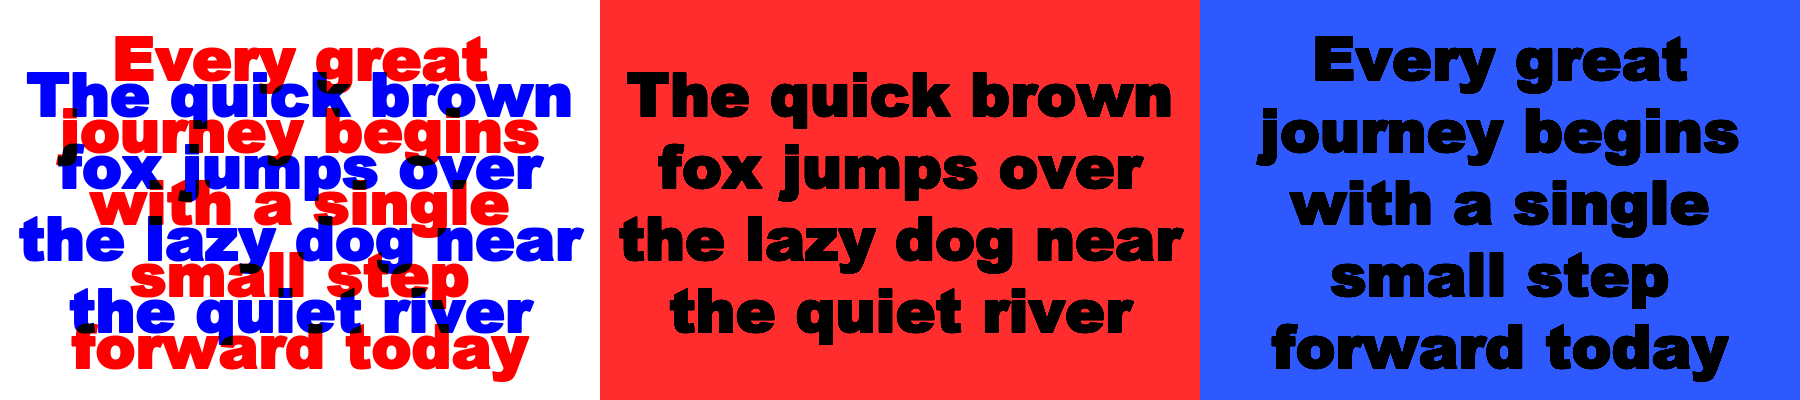
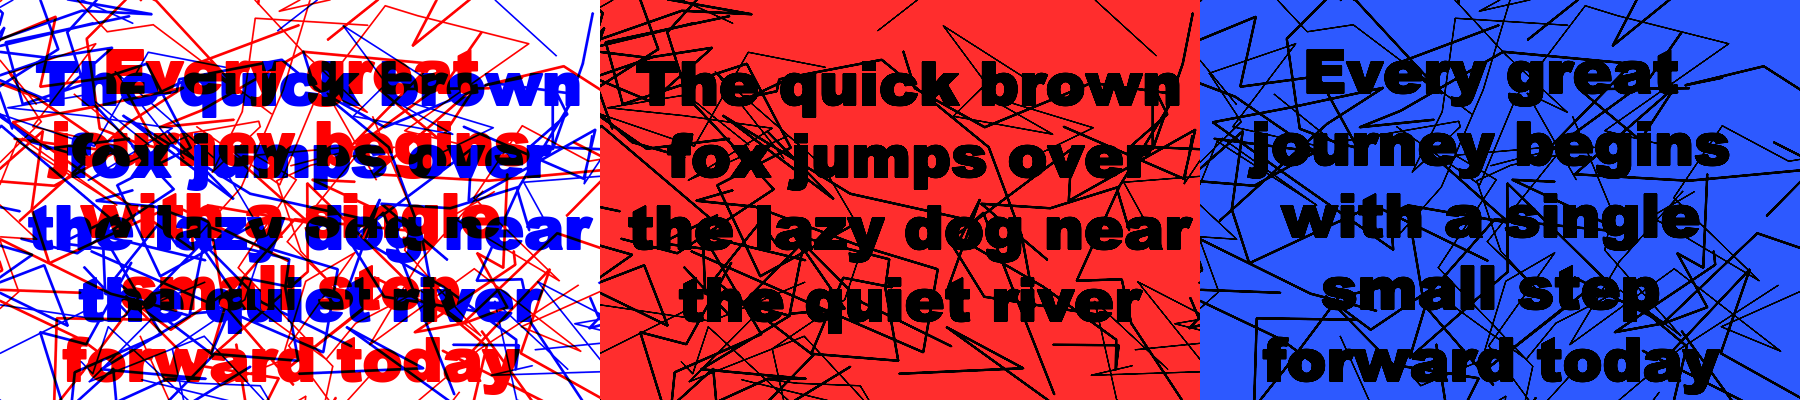
Clean camera page with permission help, move image upload to puzzle page, harder README text example

diff --git a/docs/index.html b/docs/index.html
@@ -10,74 +10,115 @@
 </head>
 <body data-title="title_cam">
 <main>
-  <div id="stage"><canvas id="view"></canvas><div id="msg" data-i="idle"></div></div>
+  <div id="stage"><canvas id="view"></canvas></div>
   <div class="bar">
+    <div id="guide" class="guide" hidden>
+      <h3 id="gtitle" data-i="g_title"></h3>
+      <div class="hint" id="gintro" data-i="g_intro"></div>
+      <pre id="gsteps"></pre>
+      <div class="hint" id="gerr" hidden></div>
+      <div class="row">
+        <button class="mini" id="retry" data-i="retry"></button>
+        <button class="mini" id="reload" data-i="reload"></button>
+        <button class="mini" id="copyaddr" data-i="copyaddr" hidden></button>
+      </div>
+      <div class="hint" id="copied" hidden></div>
+    </div>
     <div class="modes">
       <button class="m-n on" data-m="n" data-i="mode_n"></button>
       <button class="m-r" data-m="r" data-i="mode_r"></button>
       <button class="m-b" data-m="b" data-i="mode_b"></button>
     </div>
-    <div class="row"><label data-i="clarity"></label><input id="k" type="range" min="1" max="5" step="0.1" value="2.2"></div>
-    <div class="row">
-      <button class="mini" id="start" data-i="start"></button>
-      <button class="mini" id="flip" data-i="flip"></button>
-      <button class="mini" id="up" data-i="upload"></button>
-      <input id="file" type="file" accept="image/*" hidden>
-    </div>
+    <button class="go" id="start" data-i="start" hidden></button>
   </div>
 </main>
 <script src="shared.js"></script>
 <script>
-buildHeader('cam');
-let mode = 'n', stream = null, facing = 'environment', still = null, raf = 0;
-const view = $('#view'), vid = document.createElement('video');
+buildHeader();
+const K = 2.2, view = $('#view'), vid = document.createElement('video');
 vid.playsInline = true; vid.muted = true;
-const K = () => +$('#k').value;
+let mode = 'n', stream = null, still = null, raf = 0, guideErr = '', lastKind = 'denied';
+
+const UA = navigator.userAgent;
+const isIOS = /iPad|iPhone|iPod/.test(UA) || (navigator.platform === 'MacIntel' && navigator.maxTouchPoints > 1);
+const isAndroid = /Android/.test(UA);
+const settingsAddr = isIOS ? '' : /Edg\//.test(UA) ? 'edge://settings/content/camera' : /Firefox\//.test(UA) ? 'about:preferences#privacy' : /Chrome\//.test(UA) ? 'chrome://settings/content/camera' : '';
 
 document.querySelectorAll('.modes button').forEach(b => b.onclick = () => {
   mode = b.dataset.m;
   document.querySelectorAll('.modes button').forEach(x => x.classList.toggle('on', x === b));
   if (still) drawStill();
 });
-$('#k').oninput = () => { if (still) drawStill(); };
 
 function stopCam() { cancelAnimationFrame(raf); if (stream) stream.getTracks().forEach(t => t.stop()); stream = null; }
+// state: 'ask' (show the start button), 'running', 'denied' / 'error' (show help)
+function setUI(state) {
+  $('#start').hidden = state !== 'ask';
+  $('#guide').hidden = !(state === 'denied' || state === 'error');
+}
+function renderGuide(kind) {
+  const denied = kind === 'denied';
+  $('#gtitle').hidden = !denied; $('#gintro').hidden = !denied;
+  $('#gsteps').textContent = denied ? t(isIOS ? 'g_ios' : isAndroid ? 'g_android' : 'g_desktop') : '';
+  const e = $('#gerr'); e.hidden = denied; e.textContent = denied ? '' : t(guideErr);
+  $('#copyaddr').hidden = !(denied && settingsAddr);
+  $('#copied').hidden = true;
+}
+function fail(kind, err) { guideErr = err || ''; lastKind = kind; renderGuide(kind); setUI(kind); }
+
 async function startCam() {
   still = null; stopCam();
-  if (!navigator.mediaDevices || !navigator.mediaDevices.getUserMedia) { showErr(); return; }
+  if (!navigator.mediaDevices || !navigator.mediaDevices.getUserMedia) { fail('error', 'e_secure'); return; }
   try {
-    stream = await navigator.mediaDevices.getUserMedia({ video: { facingMode: { ideal: facing }, width: { ideal: 1280 }, height: { ideal: 720 } }, audio: false });
-  } catch (e) { showErr(); return; }
+    stream = await navigator.mediaDevices.getUserMedia({ video: { facingMode: { ideal: 'environment' }, width: { ideal: 1280 }, height: { ideal: 720 } }, audio: false });
+  } catch (e) {
+    const n = e && e.name;
+    if (n === 'NotFoundError' || n === 'OverconstrainedError') fail('error', 'e_nocam');
+    else if (n === 'NotReadableError' || n === 'AbortError') fail('error', 'e_busy');
+    else if (n === 'SecurityError') fail('error', 'e_secure');
+    else fail('denied');
+    return;
+  }
   vid.srcObject = stream; await vid.play();
-  $('#msg').hidden = true; loop();
+  setUI('running'); loop();
 }
-function showErr() { const m = $('#msg'); m.hidden = false; m.dataset.i = 'cam_err'; m.textContent = t('cam_err'); }
 function loop() {
   if (vid.videoWidth) {
     const sc = Math.min(1, 720 / Math.max(vid.videoWidth, vid.videoHeight));
     const w = Math.round(vid.videoWidth * sc), h = Math.round(vid.videoHeight * sc);
-    filterInto(w, h, c => c.drawImage(vid, 0, 0, w, h), view, mode, K());
+    filterInto(w, h, c => c.drawImage(vid, 0, 0, w, h), view, mode, K);
   }
   raf = requestAnimationFrame(loop);
 }
 function drawStill() {
   const s = still, sc = Math.min(1, 1000 / Math.max(s.width, s.height));
   const w = Math.round(s.width * sc), h = Math.round(s.height * sc);
-  filterInto(w, h, c => c.drawImage(s, 0, 0, w, h), view, mode, K());
+  filterInto(w, h, c => c.drawImage(s, 0, 0, w, h), view, mode, K);
 }
-function showImage(src) {
-  const im = new Image();
-  im.onload = () => { stopCam(); still = im; $('#msg').hidden = true; drawStill(); };
-  im.src = src;
-}
-$('#start').onclick = startCam;
-$('#flip').onclick = () => { facing = facing === 'environment' ? 'user' : 'environment'; if (stream) startCam(); };
-$('#up').onclick = () => $('#file').click();
-$('#file').onchange = e => { const f = e.target.files[0]; if (f) showImage(URL.createObjectURL(f)); };
 
-// a puzzle sent over from the "Make a puzzle" page
-try { const d = sessionStorage.getItem('rbl_img'); if (d) { sessionStorage.removeItem('rbl_img'); showImage(d); } } catch (e) {}
-window.onLang = () => { const m = $('#msg'); m.textContent = t(m.dataset.i); };
+$('#start').onclick = startCam;
+$('#retry').onclick = startCam;
+$('#reload').onclick = () => location.reload();
+$('#copyaddr').onclick = async () => {
+  const c = $('#copied'); c.hidden = false; c.textContent = t('copied');
+  try { await navigator.clipboard.writeText(settingsAddr); } catch (e) { c.textContent = settingsAddr; }
+};
+
+// If the camera is already allowed, start straight away. Otherwise show the start button
+// (or the help panel when the permission was blocked).
+(async function init() {
+  try { const d = sessionStorage.getItem('rbl_img'); if (d) {   // a puzzle sent over from the puzzle page
+    sessionStorage.removeItem('rbl_img');
+    const im = new Image(); im.onload = () => { still = im; drawStill(); setUI('ask'); }; im.src = d; return; } } catch (e) {}
+  let perm = null, state = 'prompt';
+  try { if (navigator.permissions) { perm = await navigator.permissions.query({ name: 'camera' }); state = perm.state; } } catch (e) {}
+  if (state === 'granted') startCam();
+  else if (state === 'denied') fail('denied');
+  else setUI('ask');
+  // when the viewer allows the camera in the browser settings, start by itself
+  if (perm) perm.onchange = () => { if (perm.state === 'granted' && !stream) startCam(); };
+})();
+window.onLang = () => renderGuide(lastKind);
 applyLang();
 </script>
 </body>

diff --git a/docs/shared.js b/docs/shared.js
@@ -3,12 +3,16 @@ const $ = s => document.querySelector(s);
 const L = {
   en: {
     title_cam:'Red/Blue Lens', title_make:'Red/Blue Lens - Make a puzzle',
-    nav_cam:'📷 Camera', nav_make:'✏ Make a puzzle',
     mode_n:'Normal', mode_r:'Red filter', mode_b:'Blue filter',
-    clarity:'Clarity', start:'▶ Start camera', flip:'🔄 Flip', upload:'🖼 Photo',
-    idle:'Tap “Start camera”, or load a photo.\nThen switch between the red and blue filters.',
-    cam_err:'Camera not available.\nAllow camera access and open this page over https.\nYou can still use “Photo”.',
-    tab_text:'✍ Sentences', tab_shape:'🔷 Shapes',
+    start:'▶ Start camera', retry:'Try again', reload:'Reload page', copyaddr:'Copy settings address', copied:'Copied. Paste it in a new tab.',
+    g_title:'Camera access is blocked', g_intro:'The browser needs your permission to use the camera. To turn it on:',
+    g_ios:'1. Tap the “aA” icon in the address bar.\n2. Tap Website Settings, then Camera, then Allow.\n3. Or open the Settings app, then Safari, then Camera, and choose Allow or Ask.\n4. Come back here and tap “Try again”.',
+    g_android:'1. Tap the lock (or settings) icon next to the address.\n2. Tap Permissions, then Camera, then Allow.\n3. Or open Android Settings, then Apps, then your browser, then Permissions, then Camera, and choose Allow.\n4. Come back here and tap “Try again”.',
+    g_desktop:'1. Click the lock or camera icon at the left of the address bar.\n2. Set Camera to Allow.\n3. Reload the page, or click “Try again”.',
+    e_nocam:'No camera was found on this device.', e_busy:'The camera is being used by another app. Close it and tap “Try again”.', e_secure:'The camera only works on a secure (https) page.',
+    
+    tab_text:'✍ Sentences', tab_shape:'🔷 Shapes', tab_img:'🖼 Upload image',
+    hint_img:'Pick a picture or screenshot of a puzzle to see it through the red and blue filters.', pick_img:'Choose an image',
     hint_text:'Write two sentences. They are drawn on top of each other, one in blue and one in red. By eye it is a mess. Through the red filter you see the blue one, through the blue filter you see the red one.',
     blue_text:'Blue sentence (shown by the red filter)', red_text:'Red sentence (shown by the blue filter)',
     hint_shape:'Pick two shapes. The blue one shows through the red filter, the red one through the blue filter.',
@@ -24,12 +28,16 @@ const L = {
   },
   ar: {
     title_cam:'عدسة الأحمر والأزرق', title_make:'عدسة الأحمر والأزرق - اعمل لغز',
-    nav_cam:'📷 الكاميرا', nav_make:'✏ اعمل لغز',
     mode_n:'عادي', mode_r:'فلتر أحمر', mode_b:'فلتر أزرق',
-    clarity:'الوضوح', start:'▶ شغّل الكاميرا', flip:'🔄 اقلب', upload:'🖼 صورة',
-    idle:'اضغط «شغّل الكاميرا» أو ارفع صورة.\nوبعدين بدّل بين الفلتر الأحمر والأزرق.',
-    cam_err:'الكاميرا مش متاحة.\nاسمح بالكاميرا وافتح الصفحة من رابط https.\nتقدر برضه تستخدم «صورة».',
-    tab_text:'✍ جمل', tab_shape:'🔷 أشكال',
+    start:'▶ شغّل الكاميرا', retry:'حاول تاني', reload:'أعد تحميل الصفحة', copyaddr:'انسخ عنوان الإعدادات', copied:'اتنسخ. الصقه في تبويب جديد.',
+    g_title:'الوصول للكاميرا مقفول', g_intro:'المتصفح محتاج إذنك عشان يستخدم الكاميرا. عشان تفتحها:',
+    g_ios:'1. اضغط على أيقونة «aA» في شريط العنوان.\n2. اضغط إعدادات الموقع، ثم الكاميرا، ثم سماح.\n3. أو افتح تطبيق الإعدادات، ثم Safari، ثم الكاميرا، واختار سماح أو اسأل.\n4. ارجع هنا واضغط «حاول تاني».',
+    g_android:'1. اضغط على أيقونة القفل (أو الإعدادات) جنب العنوان.\n2. اضغط الأذونات، ثم الكاميرا، ثم سماح.\n3. أو افتح إعدادات أندرويد، ثم التطبيقات، ثم المتصفح، ثم الأذونات، ثم الكاميرا، واختار سماح.\n4. ارجع هنا واضغط «حاول تاني».',
+    g_desktop:'1. اضغط على أيقونة القفل أو الكاميرا على يسار شريط العنوان.\n2. خلي الكاميرا على سماح.\n3. أعد تحميل الصفحة، أو اضغط «حاول تاني».',
+    e_nocam:'مفيش كاميرا على الجهاز ده.', e_busy:'الكاميرا مستخدمة في تطبيق تاني. اقفله واضغط «حاول تاني».', e_secure:'الكاميرا بتشتغل بس على صفحة آمنة (https).',
+    
+    tab_text:'✍ جمل', tab_shape:'🔷 أشكال', tab_img:'🖼 ارفع صورة',
+    hint_img:'اختار صورة أو سكرين شوت للغز عشان تشوفها بالفلتر الأحمر والأزرق.', pick_img:'اختار صورة',
     hint_text:'اكتب جملتين. هيتركبوا فوق بعض (واحدة أزرق وواحدة أحمر). بالعين مش مفهومة، وبالفلتر الأحمر هتشوف الزرقا وبالفلتر الأزرق هتشوف الحمرا.',
     blue_text:'الجملة الزرقا (بتظهر بالفلتر الأحمر)', red_text:'الجملة الحمرا (بتظهر بالفلتر الأزرق)',
     hint_shape:'اختار شكلين. الأزرق بيظهر بالفلتر الأحمر، والأحمر بيظهر بالفلتر الأزرق.',
@@ -48,10 +56,9 @@ let lang = 'en';
 try { const s = localStorage.getItem('rbl_lang'); if (s === 'ar' || s === 'en') lang = s; } catch (e) {}
 const t = k => (L[lang] && L[lang][k]) || L.en[k] || k;
 
-function buildHeader(page) {
+function buildHeader() {
   const h = document.createElement('header');
-  h.innerHTML = '<a href="index.html" data-i="nav_cam"></a><a href="make.html" data-i="nav_make"></a><button id="lang" type="button"></button>';
-  h.querySelector(page === 'cam' ? 'a[href="index.html"]' : 'a[href="make.html"]').classList.add('on');
+  h.innerHTML = '<button id="lang" type="button"></button>';
   document.body.prepend(h);
   h.querySelector('#lang').onclick = () => { lang = lang === 'en' ? 'ar' : 'en'; try { localStorage.setItem('rbl_lang', lang); } catch (e) {} applyLang(); };
 }

diff --git a/docs/make.html b/docs/make.html
@@ -11,7 +11,7 @@
 <body data-title="title_make">
 <main>
  <div class="pad">
-  <div class="seg"><button id="mt" class="on" data-i="tab_text"></button><button id="ms" data-i="tab_shape"></button></div>
+  <div class="seg"><button id="mt" class="on" data-i="tab_text"></button><button id="ms" data-i="tab_shape"></button><button id="mi" data-i="tab_img"></button></div>
 
   <div id="txtbox" class="pad" style="padding:0">
     <div class="hint" data-i="hint_text"></div>
@@ -31,6 +31,12 @@
     <div class="row"><button class="mini" id="rnd" data-i="rnd"></button><button class="mini" id="reroll" data-i="reroll"></button></div>
   </div>
 
+  <div id="imgbox" class="pad" style="padding:0" hidden>
+    <div class="hint" data-i="hint_img"></div>
+    <button class="go" id="pick" data-i="pick_img"></button>
+    <input id="file" type="file" accept="image/*" hidden>
+  </div>
+
   <button class="go" id="gen" data-i="gen"></button>
   <div class="trio">
     <figure><figcaption data-i="p_n"></figcaption><canvas id="c0"></canvas></figure>
@@ -44,7 +50,7 @@
 </main>
 <script src="shared.js"></script>
 <script>
-buildHeader('make');
+buildHeader();
 const W = 1200, H = 800, puz = document.createElement('canvas');
 const FONT = s => `900 ${s}px Cairo, "Arial Black", Tahoma, Arial, sans-serif`;
 const PRESETS = {
@@ -136,10 +142,20 @@ function drawShapes(ctx, bn, rn) {
 let pmode = 't';
 function render() {
   puz.width = W; puz.height = H; const c = puz.getContext('2d');
-  if (pmode === 's') drawShapes(c, $('#sb').value, $('#sr').value); else drawText(c, $('#tb').value, $('#tr').value);
+  if (pmode === 'i') drawImg(c); else if (pmode === 's') drawShapes(c, $('#sb').value, $('#sr').value); else drawText(c, $('#tb').value, $('#tr').value);
   [['#c0', 'n'], ['#c1', 'r'], ['#c2', 'b']].forEach(([id, m]) => filterInto(W, H, x => x.drawImage(puz, 0, 0), $(id), m, 2.2));
 }
-function setMode(m) { pmode = m; $('#mt').classList.toggle('on', m === 't'); $('#ms').classList.toggle('on', m === 's'); $('#txtbox').hidden = m !== 't'; $('#shpbox').hidden = m !== 's'; render(); }
+let upImg = null;
+function drawImg(c) {
+  c.fillStyle = '#fff'; c.fillRect(0, 0, W, H);
+  if (!upImg) return;
+  const k = Math.min(W / upImg.width, H / upImg.height), w = upImg.width * k, h = upImg.height * k;
+  c.drawImage(upImg, (W - w) / 2, (H - h) / 2, w, h);
+}
+function setMode(m) { pmode = m; ['t', 's', 'i'].forEach(x => $('#m' + x).classList.toggle('on', m === x)); $('#txtbox').hidden = m !== 't'; $('#shpbox').hidden = m !== 's'; $('#imgbox').hidden = m !== 'i'; $('#gen').hidden = m === 'i'; render(); }
+$('#mi').onclick = () => setMode('i');
+$('#pick').onclick = () => $('#file').click();
+$('#file').onchange = e => { const f = e.target.files[0]; if (!f) return; const im = new Image(); im.onload = () => { upImg = im; render(); }; im.src = URL.createObjectURL(f); };
 $('#mt').onclick = () => setMode('t'); $('#ms').onclick = () => setMode('s');
 $('#gen').onclick = render;
 $('#tb').oninput = $('#tr').oninput = () => { clearTimeout(window._d); window._d = setTimeout(render, 250); };

diff --git a/docs/shared.css b/docs/shared.css
@@ -2,9 +2,7 @@
 *{box-sizing:border-box;-webkit-tap-highlight-color:transparent}
 html,body{height:100%}
 body{margin:0;background:var(--bg);color:var(--txt);font-family:"Cairo",system-ui,"Segoe UI",Tahoma,sans-serif;display:flex;flex-direction:column}
-header{display:flex;gap:8px;align-items:center;padding:10px 16px;background:#0d0f14}
-header a{flex:1;text-align:center;padding:12px;border-radius:12px;background:var(--card);color:var(--mut);font-weight:800;font-size:16px;text-decoration:none}
-header a.on{background:var(--acc);color:#222}
+header{display:flex;justify-content:flex-end;padding:8px 16px;background:#0d0f14}
 #lang{padding:12px 14px;border:0;border-radius:12px;background:var(--card);color:var(--txt);font:800 15px inherit;font-family:inherit;cursor:pointer}
 button{font-family:inherit;cursor:pointer}
 main{flex:1;min-height:0;display:flex;flex-direction:column;overflow:auto}
@@ -39,3 +37,6 @@ h3{margin:4px 0}
 #view{max-width:100%;max-height:100%;object-fit:contain}
 #msg{position:absolute;inset:0;display:flex;align-items:center;justify-content:center;text-align:center;padding:24px;color:var(--mut);font-size:18px;line-height:1.7;white-space:pre-line;pointer-events:none}
 [hidden]{display:none!important}
+.guide{background:var(--card);border-radius:12px;padding:12px 14px;display:flex;flex-direction:column;gap:8px}
+.guide h3{margin:0;color:var(--acc)}
+.guide pre{margin:0;white-space:pre-wrap;font:inherit;line-height:1.7;font-size:14px}

diff --git a/README.md b/README.md
@@ -13,9 +13,9 @@ This project does the same thing digitally: it opens your phone camera and appli
 | 📷 **[Open the camera](https://maximusashraf.github.io/red-blue-lens/)** | Live camera with *Normal / Red / Blue* filters. Works on your phone. |
 | ✏ **[Make your own puzzle](https://maximusashraf.github.io/red-blue-lens/make.html)** | Type two sentences or pick two shapes, preview them through both filters, download and print. |
 
-1. Open the camera link and tap **Start camera** (point it at a puzzle from this page, on screen or printed).
+1. Open the camera link, allow the camera, and point it at a puzzle from this page (on screen or printed).
 2. Switch between **Red filter** and **Blue filter**. A different hidden picture appears in each.
-3. Want your own? Open the puzzle page, then tap **Open in camera** to test it right away.
+3. Want your own? Open the puzzle page, make one (or upload an image), then tap **Open in camera** to test it right away.
 
 The app is in **English by default**. Tap **عربي** in the top corner for Arabic (right-to-left); it remembers your choice.
 
@@ -25,7 +25,7 @@ The app is in **English by default**. Tap **عربي** in the top corner for Ara
 
 ![Easy puzzle: normal view, red filter, blue filter](docs/easy-strip.png)
 
-Sentences work the same way. Here two 10+ word English sentences are overlaid:
+Sentences work the same way. Here two 10+ word English sentences are printed on top of each other (with scribbles), so the page is unreadable by eye:
 
 - Blue: *"The quick brown fox jumps over the lazy dog near the quiet river"*
 - Red: *"Every great journey begins with a single small step forward today"*
@@ -48,8 +48,8 @@ When generating puzzles, both layers are drawn with the canvas `multiply` blend 
 ## Features
 
 - **Two pages**: `index.html` (camera) and `make.html` (puzzle maker), English and Arabic.
-- **Camera mode**: live camera with *Normal / Red filter / Blue filter*, a contrast slider and front/back camera switch.
-- **Photo mode**: pick an image (on phones this can also open the camera) and flip between filters.
+- **Camera page**: a clean live camera with *Normal / Red filter / Blue filter* buttons. The *Start camera* button only appears if the browser has not already allowed the camera, and if access is blocked the page shows step-by-step help for iPhone, Android and desktop, with Try again, Reload and Copy settings address buttons.
+- **Upload an image** (on the puzzle page): load a photo or screenshot of a puzzle and see it through both filters.
 - **Text puzzles**: type two sentences, they are auto-wrapped to fill the canvas with the largest possible font, then overlaid in blue and red.
 - **Shape puzzles**: pick two of 12 shapes. Difficulty levels add random scribbles, rotation and offsets so the shapes are hard to make out by eye. The hidden shape is drawn with a thicker stroke than the noise so it stands out under the filter.
 - **Preview** of the normal, red-filtered and blue-filtered result before you print.
@@ -66,7 +66,7 @@ python3 -m http.server 8000
 # open http://localhost:8000
 ```
 
-The `docs/` folder is a static site, so it is also what GitHub Pages serves. You can deploy it to any static host. Without HTTPS the live camera is blocked by the browser, but you can still load a picture of a puzzle with the photo button.
+The `docs/` folder is a static site, so it is also what GitHub Pages serves. You can deploy it to any static host. Without HTTPS the live camera is blocked by the browser. You can still preview a puzzle through both filters on the puzzle page.
 
 ## Real-world use (no app needed)
 
